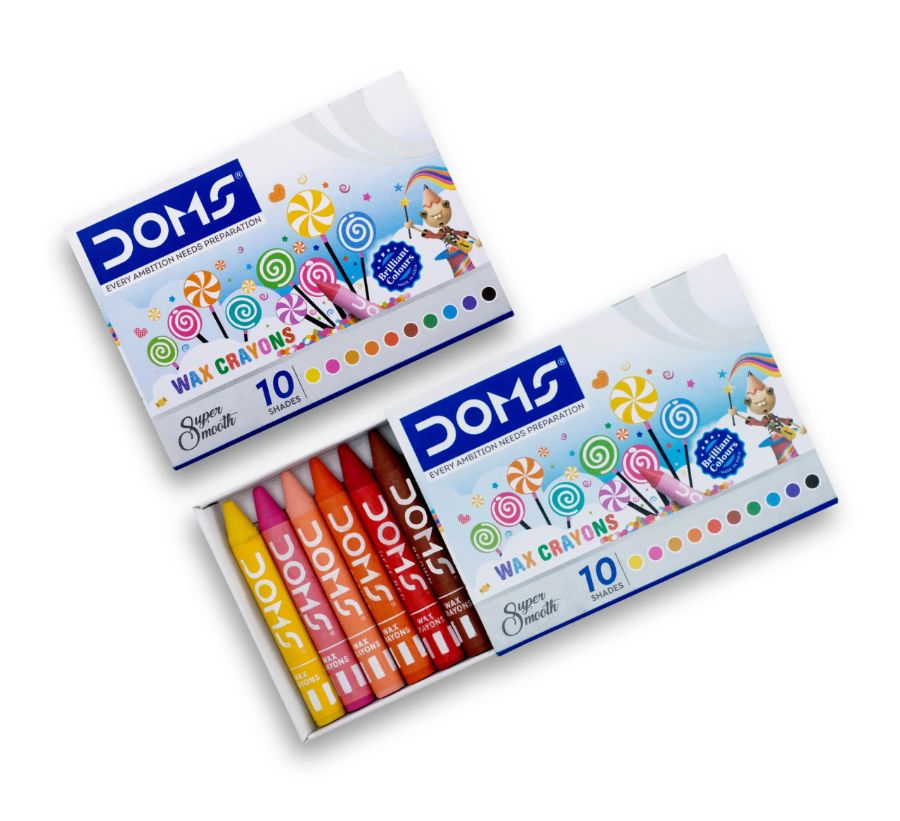
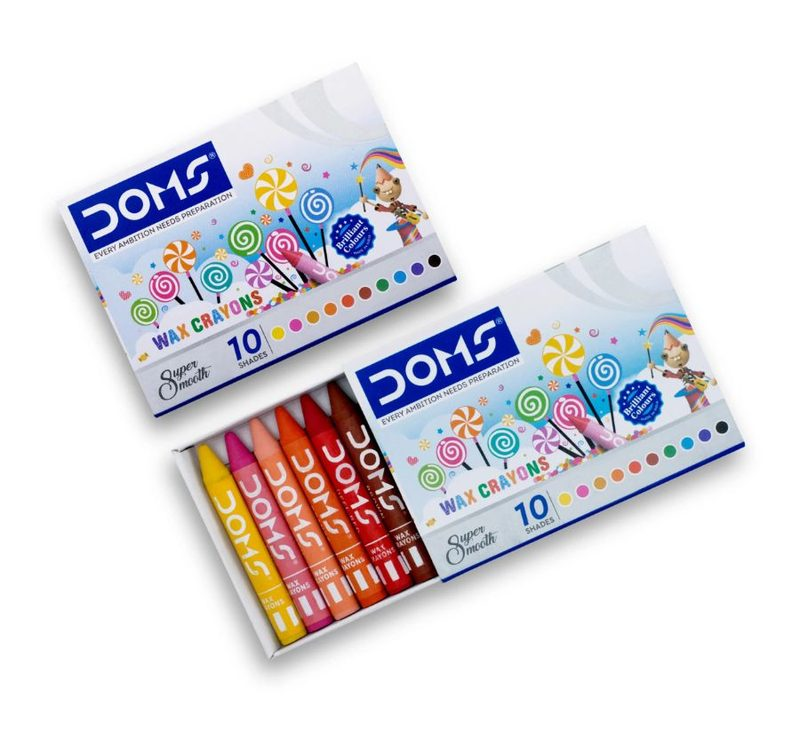
Optimize product images, lock canonical catalog & auto-reload SW on update, bump v221

Changed region(s): [[0.4062, 0.3018, 0.4688, 0.332], [0.7812, 0.5432, 0.8125, 0.5734], [0.1875, 0.3621, 0.2188, 0.3923]]

diff --git a/index.html b/index.html
@@ -7568,7 +7568,7 @@
 
   <script defer src="analytics.js?v=2"></script>
   <script defer src="ads-media.js?v=90.0"></script>
-  <script src="store.js?v=92.55"></script>
+  <script src="store.js?v=92.56"></script>
 
   <!-- Legal Footer for Payment Gateway -->
   <footer style="background: #0f172a; padding: 20px 0; text-align: center; font-size: 13px; color: #94a3b8; margin-top: 40px;">
@@ -7587,6 +7587,12 @@
   <!-- PWA Scripts & Real-time Live Updates -->
   <script>
     if ('serviceWorker' in navigator) {
+      let swRefreshing = false;
+      navigator.serviceWorker.addEventListener('controllerchange', () => {
+        if (swRefreshing) return;
+        swRefreshing = true;
+        window.location.reload();
+      });
       window.addEventListener('load', () => {
         navigator.serviceWorker.register('sw.js').catch(error => {
           console.error('Service worker registration failed:', error);

diff --git a/store.html b/store.html
@@ -7568,7 +7568,7 @@
 
   <script defer src="analytics.js?v=2"></script>
   <script defer src="ads-media.js?v=90.0"></script>
-  <script src="store.js?v=92.55"></script>
+  <script src="store.js?v=92.56"></script>
 
   <!-- Legal Footer for Payment Gateway -->
   <footer style="background: #0f172a; padding: 20px 0; text-align: center; font-size: 13px; color: #94a3b8; margin-top: 40px;">
@@ -7587,6 +7587,12 @@
   <!-- PWA Scripts & Real-time Live Updates -->
   <script>
     if ('serviceWorker' in navigator) {
+      let swRefreshing = false;
+      navigator.serviceWorker.addEventListener('controllerchange', () => {
+        if (swRefreshing) return;
+        swRefreshing = true;
+        window.location.reload();
+      });
       window.addEventListener('load', () => {
         navigator.serviceWorker.register('sw.js').catch(error => {
           console.error('Service worker registration failed:', error);

diff --git a/store.js b/store.js
@@ -34,12 +34,17 @@ const PERMANENTLY_HIDDEN_CATALOG_IDS = new Set([
   'OD1792945161265833' // Legacy cancelled order mis-tagged as CATALOG_PRODUCT
 ]);
 
-// One-time unhide of all previously added products that may have been hidden in jk_deleted_catalog_ids
+// One-time unhide of all previously added products and stale price cache reset
 (function unhideAddedCatalogProductsOnce() {
   try {
     if (localStorage.getItem('jk_unhide_all_added_20261127') !== 'true') {
       localStorage.setItem('jk_deleted_catalog_ids', '[]');
       localStorage.setItem('jk_unhide_all_added_20261127', 'true');
+    }
+    if (localStorage.getItem('jk_lock_canonical_prices_20261127') !== 'true') {
+      localStorage.removeItem('jk_custom_prices');
+      localStorage.removeItem('jk_custom_mrps');
+      localStorage.setItem('jk_lock_canonical_prices_20261127', 'true');
     }
   } catch (e) {}
 })();

diff --git a/account.html b/account.html
@@ -813,7 +813,7 @@
   <script src="https://cdn.jsdelivr.net/npm/jsqr@1.4.0/dist/jsQR.min.js"></script>
   <!-- Real-Time Visitor Analytics Tracker -->
   <script src="analytics.js?v=1"></script>
-  <script src="store.js?v=92.55"></script>
+  <script src="store.js?v=92.56"></script>
   <!-- PWA Service Worker Registration & Live Updates -->
   <script>
     if ('serviceWorker' in navigator) {

diff --git a/cart.html b/cart.html
@@ -1141,7 +1141,7 @@
 
   <!-- Real-Time Visitor Analytics Tracker -->
   <script src="analytics.js?v=2"></script>
-  <script src="store.js?v=92.55"></script>
+  <script src="store.js?v=92.56"></script>
   <!-- PWA Service Worker Registration & Live Updates -->
   <script>
     if ('serviceWorker' in navigator) {

diff --git a/sw.js b/sw.js
@@ -1,4 +1,4 @@
-const CACHE_NAME = 'jk-study-hub-v220';
+const CACHE_NAME = 'jk-study-hub-v221';
 const urlsToCache = [
   './',
   './index.html',
